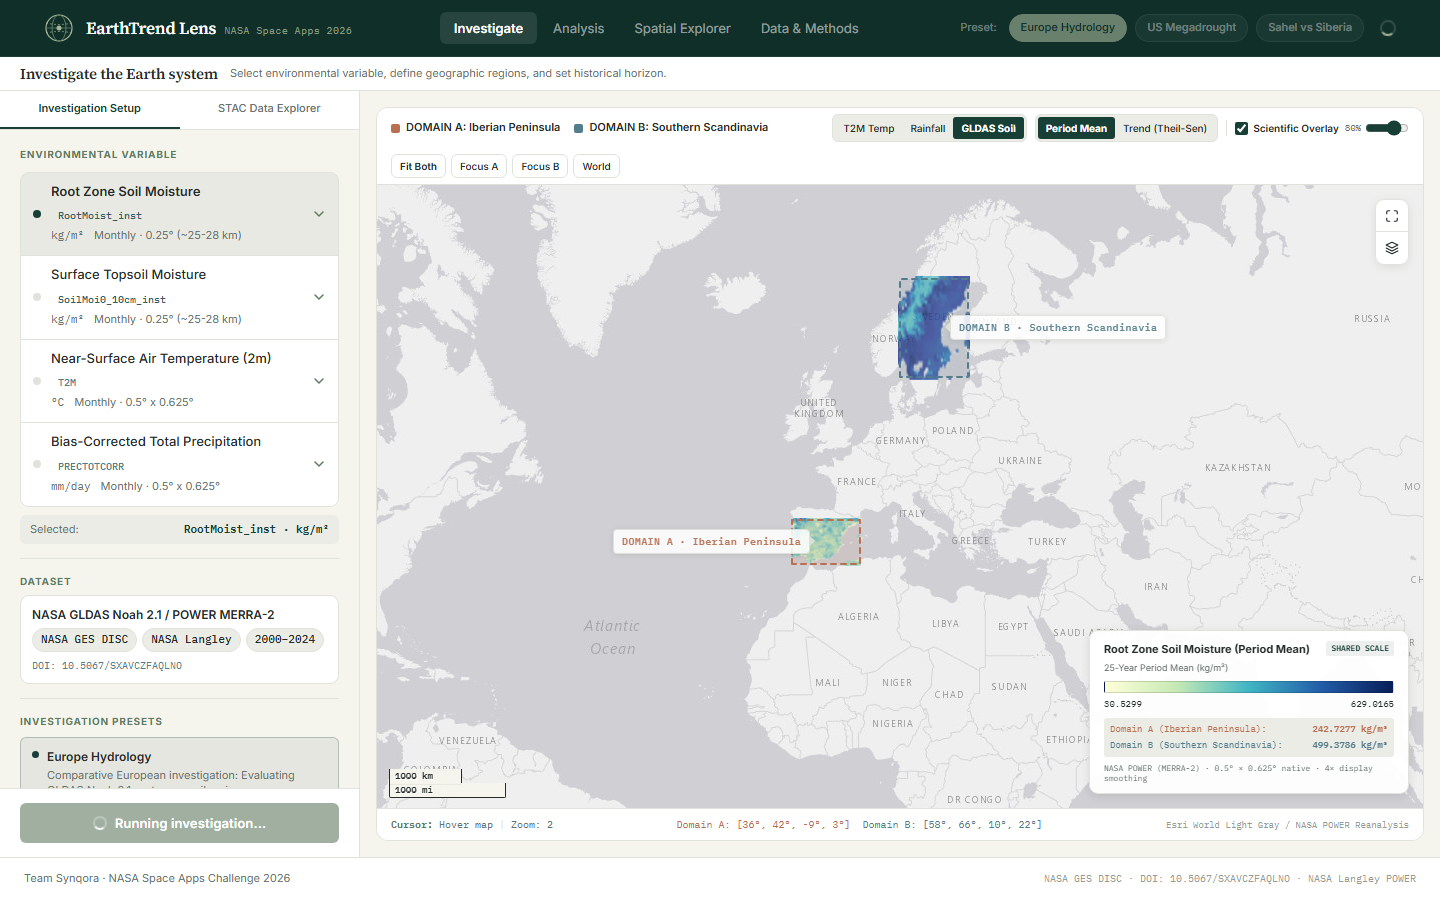
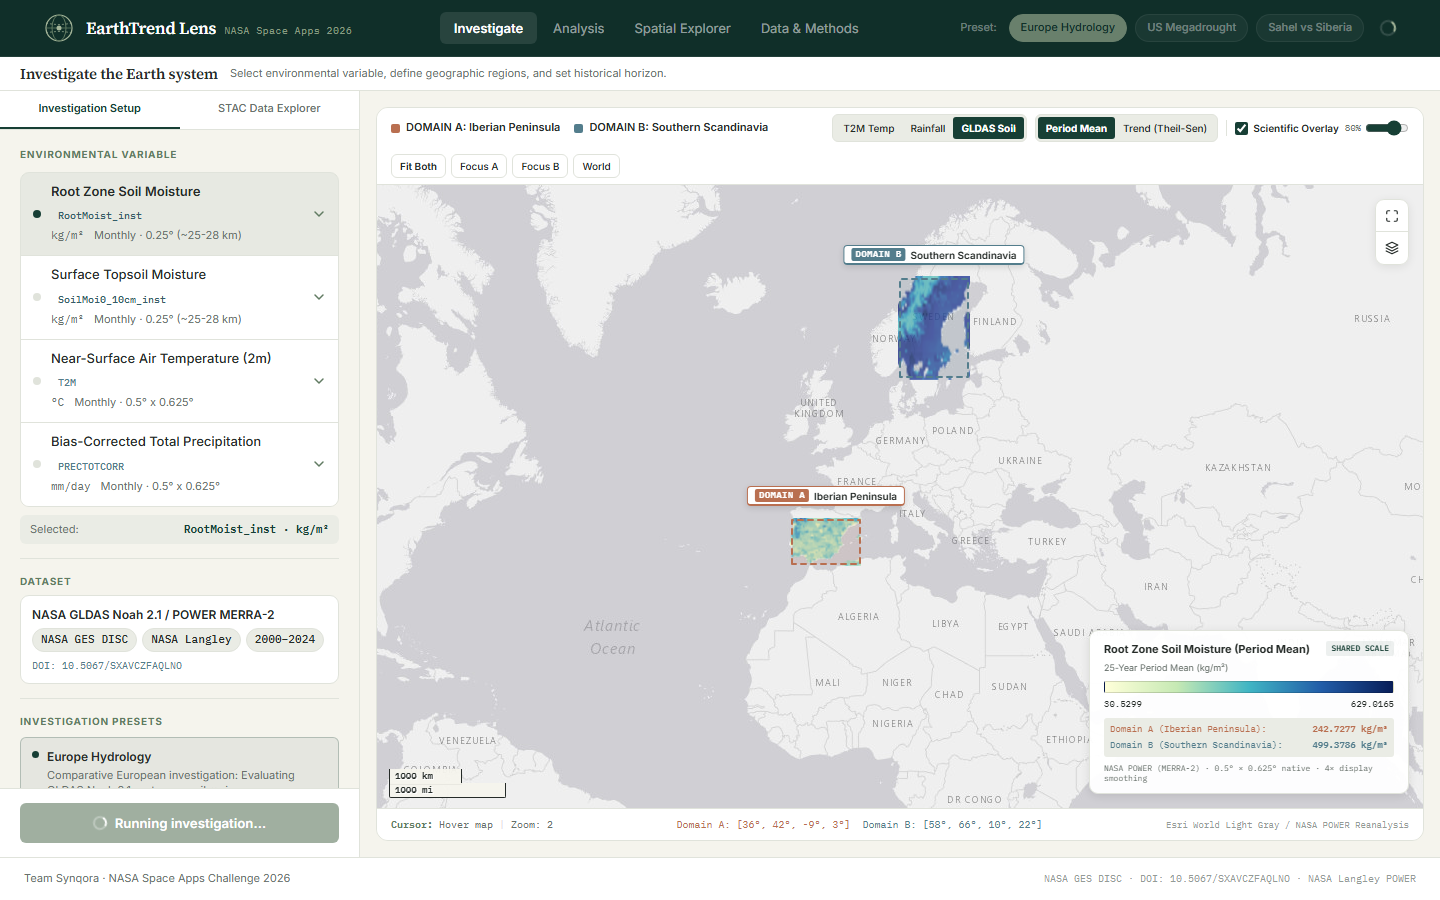
feat(ui): add floating vertical gap above domain bounding box headers

Changed region(s): [[0.4062, 0.5289, 0.625, 0.6222], [0.5625, 0.2489, 0.7188, 0.3111], [0.6562, 0.3422, 0.7812, 0.3733]]

diff --git a/frontend/src/components/investigation/MapCanvas.tsx b/frontend/src/components/investigation/MapCanvas.tsx
@@ -284,15 +284,6 @@ export const MapCanvas: React.FC<MapCanvasProps> = ({
     setValidationA(resA);
     setValidationB(resB);
 
-    // Position tooltips on outer lateral flanks (left/right) so central domain view and rasters are never obstructed
-    const centerLonA = (bboxA[2] + bboxA[3]) / 2;
-    const centerLonB = (bboxB[2] + bboxB[3]) / 2;
-    const isAWestOfB = centerLonA <= centerLonB;
-    const dirA: L.Direction = isAWestOfB ? 'left' : 'right';
-    const dirB: L.Direction = isAWestOfB ? 'right' : 'left';
-    const offsetA: L.PointExpression = isAWestOfB ? [-10, 0] : [10, 0];
-    const offsetB: L.PointExpression = isAWestOfB ? [10, 0] : [-10, 0];
-
     // Domain A (#B96F50 - Terracotta)
     if (resA.isValid && resA.leafletBounds) {
       const rectA = L.rectangle(resA.leafletBounds, {
@@ -302,14 +293,24 @@ export const MapCanvas: React.FC<MapCanvasProps> = ({
         fillOpacity: 0.10,
         dashArray: '5, 5',
       });
-
-      rectA.bindTooltip(
-        `<span style="font-family: var(--font-mono); font-size: 10px; font-weight: 600; color: #B96F50; letter-spacing: 0.04em;">DOMAIN A${
-          regionAName ? ` · ${regionAName}` : ''
-        }</span>`,
-        { permanent: true, direction: dirA, offset: offsetA, className: 'domain-leaflet-tooltip' }
-      );
       domainGroup.addLayer(rectA);
+
+      // Pinned top-edge header badge touching boundary with small gap
+      const topLatA = bboxA[1];
+      const centerLonA = (bboxA[2] + bboxA[3]) / 2;
+      const markerA = L.marker([topLatA, centerLonA], {
+        icon: L.divIcon({
+          className: 'domain-edge-tag-wrapper',
+          html: `<div class="domain-edge-tag domain-edge-tag-a">
+            <span class="domain-badge-pill-a">DOMAIN A</span>
+            <span class="domain-badge-label">${regionAName || 'Domain A'}</span>
+          </div>`,
+          iconSize: [0, 0],
+          iconAnchor: [0, 0],
+        }),
+        interactive: false,
+      });
+      domainGroup.addLayer(markerA);
     }
 
     // Domain B (#537D8C - Mineral Blue)
@@ -321,14 +322,24 @@ export const MapCanvas: React.FC<MapCanvasProps> = ({
         fillOpacity: 0.10,
         dashArray: '5, 5',
       });
-
-      rectB.bindTooltip(
-        `<span style="font-family: var(--font-mono); font-size: 10px; font-weight: 600; color: #537D8C; letter-spacing: 0.04em;">DOMAIN B${
-          regionBName ? ` · ${regionBName}` : ''
-        }</span>`,
-        { permanent: true, direction: dirB, offset: offsetB, className: 'domain-leaflet-tooltip' }
-      );
       domainGroup.addLayer(rectB);
+
+      // Pinned top-edge header badge touching boundary with small gap
+      const topLatB = bboxB[1];
+      const centerLonB = (bboxB[2] + bboxB[3]) / 2;
+      const markerB = L.marker([topLatB, centerLonB], {
+        icon: L.divIcon({
+          className: 'domain-edge-tag-wrapper',
+          html: `<div class="domain-edge-tag domain-edge-tag-b">
+            <span class="domain-badge-pill-b">DOMAIN B</span>
+            <span class="domain-badge-label">${regionBName || 'Domain B'}</span>
+          </div>`,
+          iconSize: [0, 0],
+          iconAnchor: [0, 0],
+        }),
+        interactive: false,
+      });
+      domainGroup.addLayer(markerB);
     }
   }, [bboxA, bboxB, regionAName, regionBName]);
 
@@ -1142,6 +1153,114 @@ export const MapCanvas: React.FC<MapCanvasProps> = ({
       </div>
 
       <style>{`
+        .domain-edge-tag-wrapper {
+          background: transparent !important;
+          border: none !important;
+        }
+        .domain-edge-tag {
+          position: absolute;
+          bottom: 14px;
+          left: 50%;
+          transform: translateX(-50%);
+          display: inline-flex;
+          align-items: center;
+          gap: 5px;
+          padding: 2px 7px;
+          background: rgba(255, 255, 255, 0.98);
+          border-radius: 4px;
+          box-shadow: 0 2px 6px rgba(0, 0, 0, 0.12);
+          white-space: nowrap;
+          pointer-events: none;
+          font-family: var(--font-sans);
+          font-size: 10px;
+          line-height: 1.2;
+        }
+        .domain-edge-tag-a {
+          border: 1px solid #B96F50;
+          border-bottom: 2px solid #B96F50;
+        }
+        .domain-edge-tag-b {
+          border: 1px solid #537D8C;
+          border-bottom: 2px solid #537D8C;
+        }
+        .domain-badge-pill-a {
+          font-family: var(--font-mono);
+          font-weight: 700;
+          font-size: 9px;
+          color: #ffffff;
+          background: #B96F50;
+          padding: 1px 4px;
+          border-radius: 2px;
+          letter-spacing: 0.04em;
+        }
+        .domain-badge-pill-b {
+          font-family: var(--font-mono);
+          font-weight: 700;
+          font-size: 9px;
+          color: #ffffff;
+          background: #537D8C;
+          padding: 1px 4px;
+          border-radius: 2px;
+          letter-spacing: 0.04em;
+        }
+        .domain-badge-label {
+          font-weight: 600;
+          color: var(--color-graphite);
+        }
+        .domain-edge-tag-wrapper {
+          background: transparent !important;
+          border: none !important;
+        }
+        .domain-edge-tag {
+          position: absolute;
+          bottom: 14px;
+          left: 50%;
+          transform: translateX(-50%);
+          display: inline-flex;
+          align-items: center;
+          gap: 5px;
+          padding: 2px 7px;
+          background: rgba(255, 255, 255, 0.98);
+          border-radius: 4px;
+          box-shadow: 0 2px 6px rgba(0, 0, 0, 0.12);
+          white-space: nowrap;
+          pointer-events: none;
+          font-family: var(--font-sans);
+          font-size: 10px;
+          line-height: 1.2;
+        }
+        .domain-edge-tag-a {
+          border: 1px solid #B96F50;
+          border-bottom: 2px solid #B96F50;
+        }
+        .domain-edge-tag-b {
+          border: 1px solid #537D8C;
+          border-bottom: 2px solid #537D8C;
+        }
+        .domain-badge-pill-a {
+          font-family: var(--font-mono);
+          font-weight: 700;
+          font-size: 9px;
+          color: #ffffff;
+          background: #B96F50;
+          padding: 1px 4px;
+          border-radius: 2px;
+          letter-spacing: 0.04em;
+        }
+        .domain-badge-pill-b {
+          font-family: var(--font-mono);
+          font-weight: 700;
+          font-size: 9px;
+          color: #ffffff;
+          background: #537D8C;
+          padding: 1px 4px;
+          border-radius: 2px;
+          letter-spacing: 0.04em;
+        }
+        .domain-badge-label {
+          font-weight: 600;
+          color: var(--color-graphite);
+        }
         .domain-leaflet-tooltip {
           background-color: rgba(255, 255, 255, 0.96) !important;
           border: 1px solid var(--color-border) !important;
